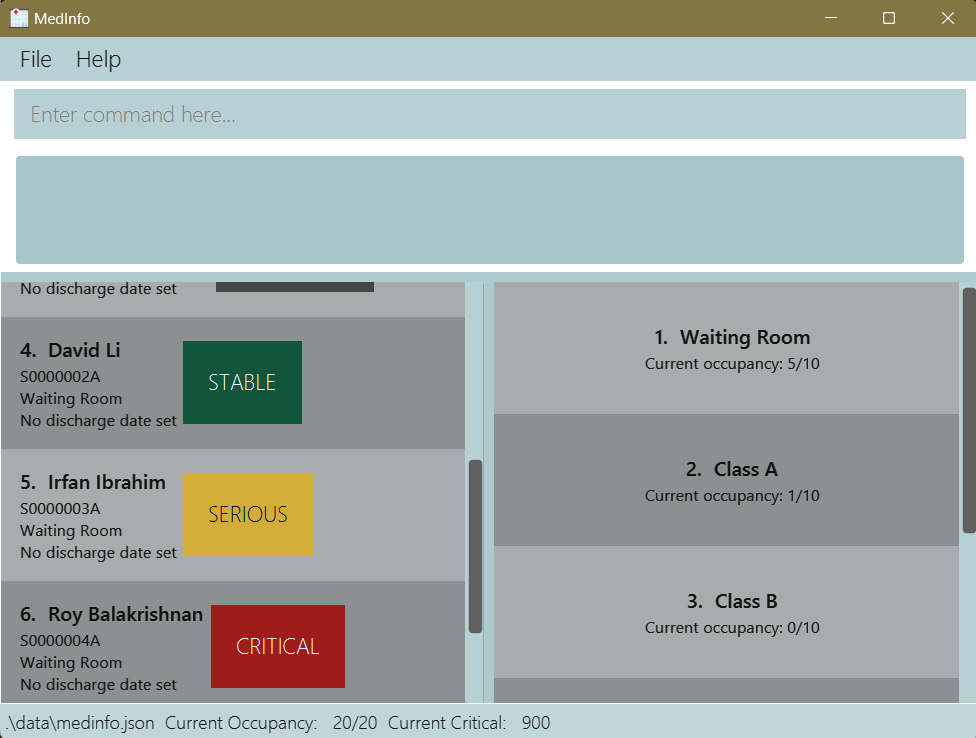
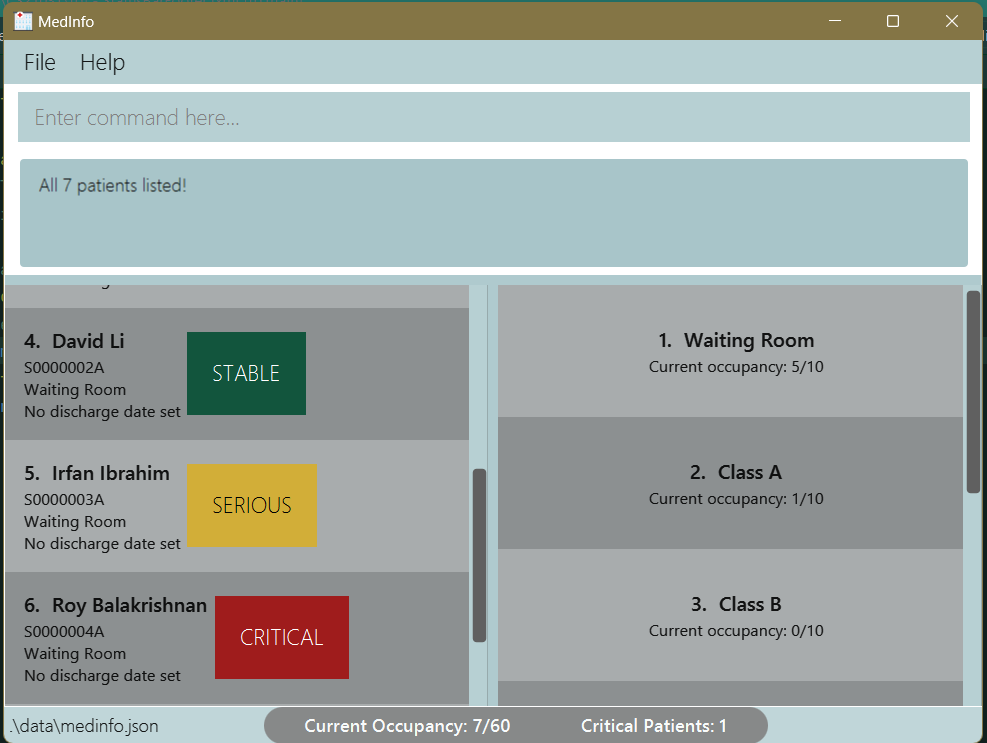
Merge conflicts fully resolved

diff --git a/src/main/java/seedu/medinfo/model/ModelManager.java b/src/main/java/seedu/medinfo/model/ModelManager.java
@@ -192,7 +192,7 @@ public class ModelManager implements Model {
 
     @Override
     public List<String> getStatsInfo() {
-        return addressBook.getStatsInfo();
+        return medInfo.getStatsInfo();
     }
     @Override
     public boolean equals(Object obj) {
